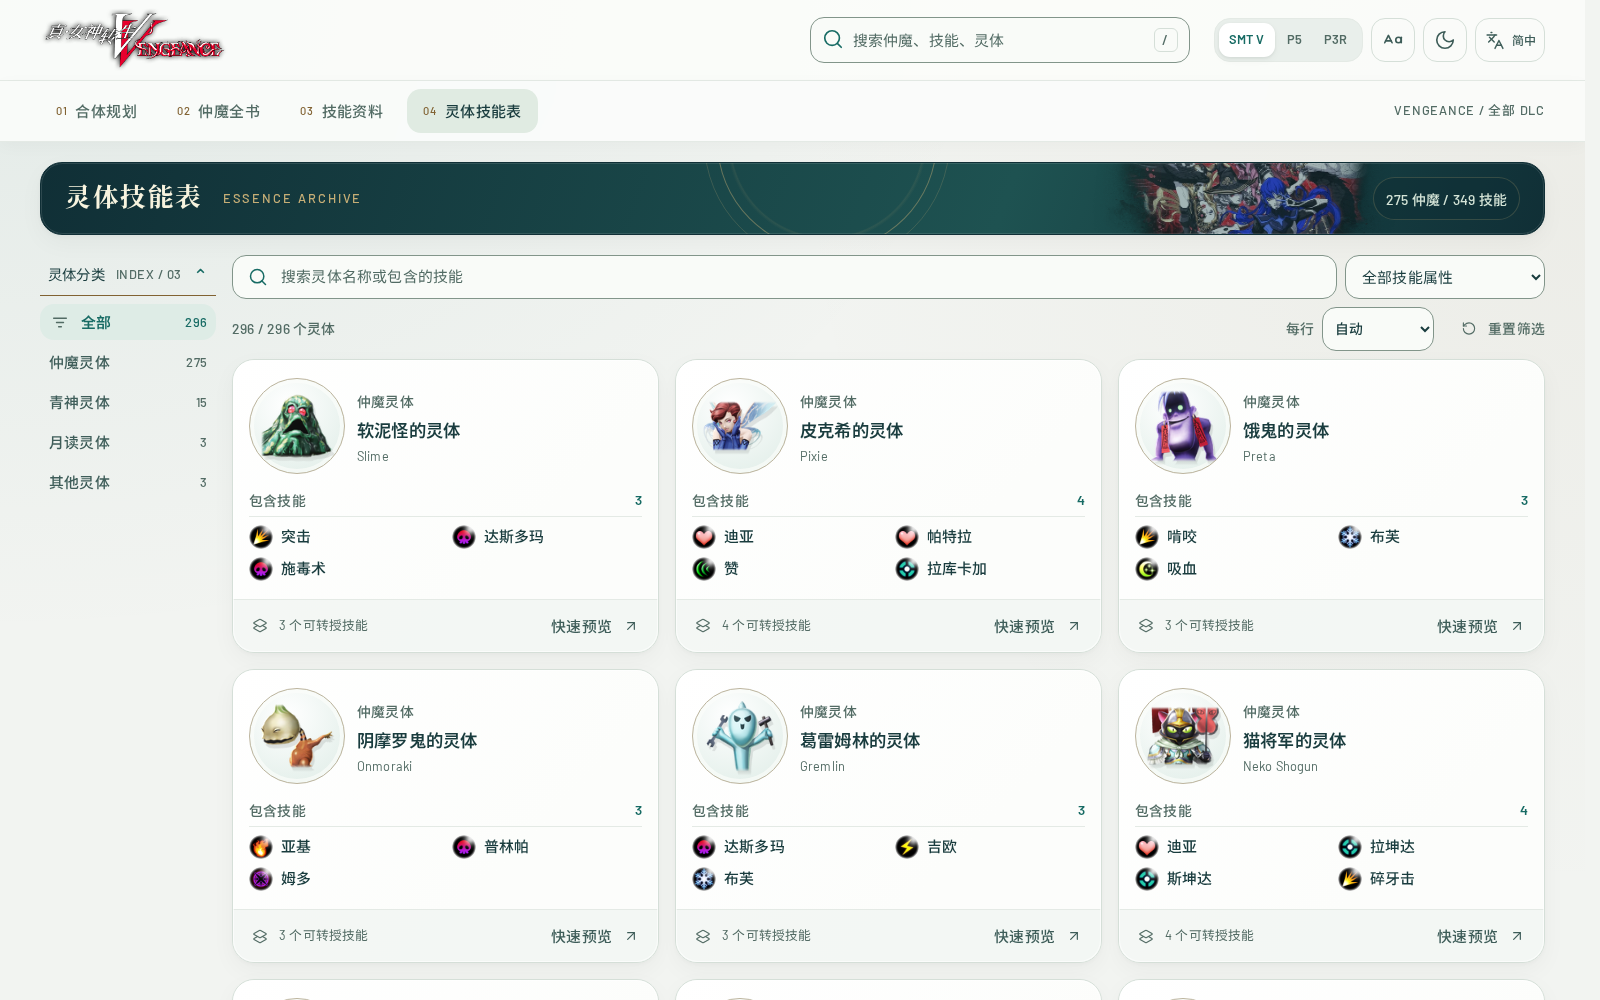
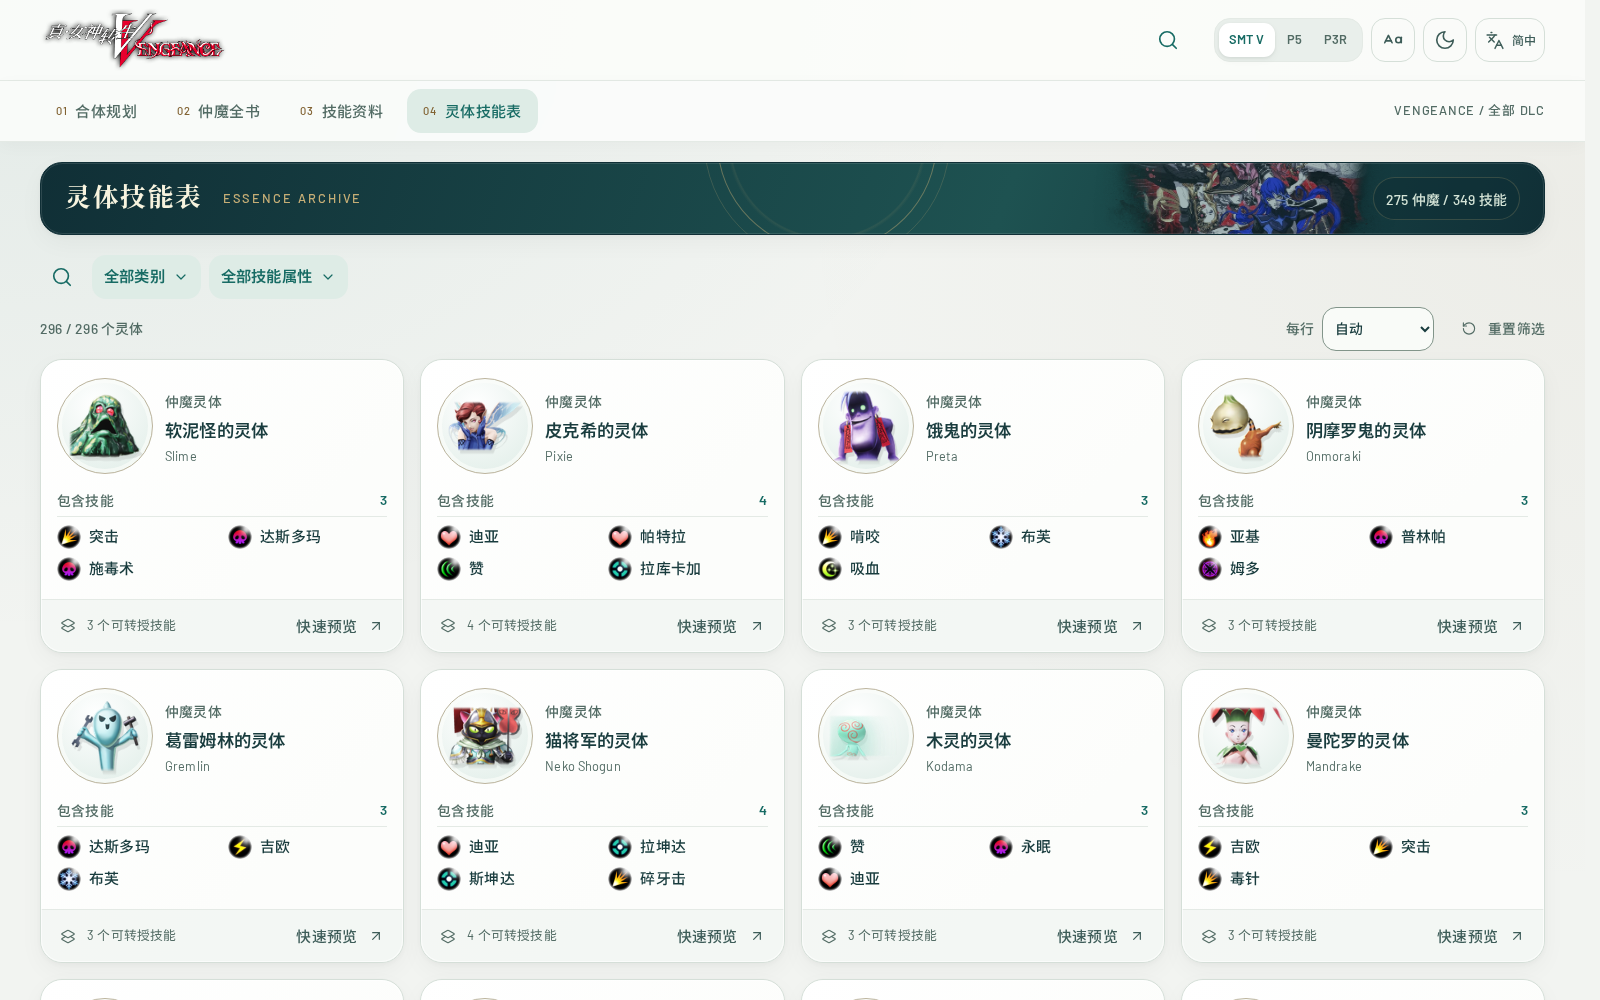
docs: describe the mobile update and refresh desktop and phone screenshots

diff --git a/docs/DESIGN.md b/docs/DESIGN.md
@@ -21,19 +21,19 @@
 - 效果说明为 `.9375rem`（约 15–16px），辅助信息为 `.8125rem`（约 13–14px），耐性、来源与计数等小标签为 `.75rem`（12–13px）。所有层级随大字号设置缩放，手机保持同一套字号变量。
 - 基础间距为 4px，组件一般使用 12–16px 内边距，主要区域间距为 16–20px。数据行距为 1.5–1.7，长篇介绍为 1.8。中等屏幕减少技能列数，最窄屏幕和手机大字号使用单列技能卡。
 - 三主题共用圆角变量：小标签 10px、控件 14px、内嵌卡 16px、资料卡 22px、面板 26px、弹窗 30px。手机面板为 22px、弹窗为 26px；卡片底栏和面板标题匹配外层弧度，菜单、提示与焦点轮廓保持可见。加载占位沿用对应容器的圆角，技能卡移除旧折角，容量刻度使用竖向圆头。
-- 页头仅保留放大的 Logo，桌面为 188×64px；窄屏中 Logo 与搜索共用一行，设置控件放在下一行。导航使用半透明底色与 44px 高的圆角选项，页签与主题选择使用浅底分段控件。页面标题为圆角横栏，桌面最小高度 72px、上下间距 20px，手机为 56px 与 12px；隐藏重复面包屑和手机英文标记。
-- 目标仲魔的头像、等级、种族和名称并排显示；三主题的目标搜索与种族筛选统一为同一行。装配区使用下沉底色与清晰的卡片表面，多列网格的八个槽位等高且最小高度 184px，单列空槽 92px、未选目标时 76px；完整效果自然撑开所有行，保留消耗、替换和指定来源操作。条件区横向排列，生成路线按钮仍随正文滚动。
-- 仲魔卡展示头像、种族、等级、合体类型与七属性耐性；配置与预览是独立按钮。技能卡优先显示效果，再列基础消耗、继承限制与习得来源数量。灵体卡展示前四项技能，搜索命中的技能优先出现，完整技能在预览和详情中查看。
-- 资料卡使用 16px 主体内边距与间距，按内容区宽度自动排为更多列；仲魔卡最小宽度 250px，技能与灵体卡 320px，手机自然缩为单列。仲魔卡以 88px 头像与身份资料并排、下方显示七属性耐性；灵体头像使用 96px 圆形框，卡宽不超过 18rem 时为 80px，图片等比例居中并保留内边距，悬停时保持在圆内。操作按钮保留 44px 点击高度。
-- 技能列表按左侧属性目录顺序分组排列，同属性保持稳定次序；搜索、继承筛选、重置和语言切换保持同一规则。
+- 页头保留 Logo、放大镜搜索入口与显示设置。手机设置收在菜单中，隐藏重复的页面标题横栏，为配置和资料内容留出空间；导航保留 44px 触屏操作区域。全局搜索以独立宽面板显示，不受页头按钮宽度限制。
+- 桌面配置将目标摘要和技能网格并排；手机将目标摘要、技能和条件顺排，目标耐性、习得技能与高级条件按需展开。技能卡提供替换、移除和来源入口，手机生成路线按钮固定在可操作位置，并在软键盘展开时让出空间。
+- 桌面仲魔卡展示头像、种族、等级、合体类型与七属性耐性；手机保留身份信息和操作入口，完整属性在预览与详情中阅读。技能卡优先显示效果与消耗；灵体卡优先显示匹配技能，手机默认展示前两项。卡片主体进入详情，配置、预览与卡内技能链接保持独立。
+- 资料卡按内容区宽度自动排列，手机使用紧凑单列；图片保持原比例。生成、替换、移除、筛选和预览等触屏操作区域至少 44px。
+- 技能列表按分类菜单的属性顺序分组排列，同属性保持稳定次序；搜索、继承筛选、重置和语言切换保持同一规则。
 - 三个资料列表分别提供「每行」选择，支持自动或最多 1–6 项，偏好独立保存在 `smtvv-catalog-columns-v1` 并在标签页间同步。自动模式沿用原有卡宽；手动模式最小卡宽为仲魔 208px、技能／灵体 240px，窄屏自动减少实际列数。调整密度保留筛选、配置和焦点，重置筛选保留密度。手机使用带可访问名称的重置图标。
 - 仲魔卡的七属性在不足 18rem 的容器中排为四列两行，较宽时七列一行。完整状态词保持一行，采用 600 字重与状态色细边框；普通属性透明底，突出耐性和无效等特殊状态。
-- 自动模式的大字号技能卡使用 18rem 最小宽度和 16px 内边距、间距，让列数随阅读字号调整。分类置于首行，名称、原名和效果左对齐；名称为 1.1rem，效果沿用大字号。消耗与继承分为两栏，标签位于数值上方，来源和预览在卡片底部对齐；手动密度下卡宽不超过 17rem 时，来源与预览分行。桌面目录标题与 INDEX 编号分行。
-- 桌面分类目录宽 176px、中等屏幕 164px，分类行至少 36px 高，保持在视野内；899px 及以下默认折叠，操作至少 44px，使用原生 `details` / `summary` 支持键盘操作。搜索与二级筛选在目录关闭时仍可使用，工具条不再包裹额外面板。
+- 自动模式的大字号技能卡使用 18rem 最小宽度和 16px 内边距、间距，让列数随阅读字号调整。分类置于首行，名称、原名和效果左对齐；名称为 1.1rem，效果沿用大字号。消耗与继承分为两栏，标签位于数值上方，来源和预览在卡片底部对齐；手动密度下卡宽不超过 17rem 时，来源与预览分行。分类按钮直接显示当前选项。
+- 三个资料页采用同排的放大镜、分类选择与二级筛选。去掉可见的左侧说明与 INDEX 编号，两个选择器共用下拉按钮和选项面板；选择后收起，支持方向键、Home / End、Escape、外部点击关闭与焦点返回。搜索展开为整行输入框，收起后显示有效搜索条件；筛选、重置与详情返回保留一致状态。
 - 预览使用原生模态 `dialog`，桌面为 440px 侧栏，距窗口边缘 16px；手机距边缘 8px，保留四角弧度。内边距桌面 24px、手机 20px，背景轻微虚化。支持关闭按钮、Escape 和点击背景，关闭后焦点返回原按钮；列表宽度和原滚动位置保持稳定。仲魔预览列出七属性耐性、固有技能与配置入口，肖像区域高 132px。减少动画模式同时关闭卡片与抽屉动画。
 - 仲魔详情页在 1200px 及以上将完整介绍放在头像与基础资料右侧，1199px 及以下顺排在基础资料下方；能力、耐性和技能接续在页头之后。仲魔头像在桌面使用 224×184px、手机使用 112×112px，389px 以下宽度收至 96px，为长名称留出空间，图片始终保持原比例；名称、基础资料和配置入口合并为紧凑页头，手机资料使用两列。介绍保留完整自然段、1.8 行高与最多 68ch 的阅读宽度；技能详情说明也限制为 68ch。699px 以下的技能表改为名称和操作在上、完整效果在下的条目，保留表格语义和所有数据。
-- 路线方案使用圆角分段选择栏，以浅底容器、选中表面和轻投影区分状态；每项并排展示费用和操作数，手机改为同一容器内的三行。完整解释保留在提示与对比明细，方向键及 Home / End 可切换方案并保留焦点。
-- 路线步骤采用连续无卡片清单，以加号和箭头连接等宽的材料与结果。技能直接标在对应仲魔或灵体下方；同一继承技能只在一个提供方显示，其他可选提供方用名称链接注明。
+- 桌面路线方案使用分段选择栏，同时展示费用和操作数；手机使用紧凑方案选择器与当前方案摘要。其他计算目标按需计算，完整解释可在方案对比中查看。
+- 桌面路线步骤以加号和箭头连接材料与结果，技能显示在对应仲魔或灵体下方；手机先展示材料、结果与技能变化摘要，完整来源在每步明细中展开。
 - 路线头像桌面为 112px、窄屏 88px；名称分别为 1.5rem、1.375rem，技能名称为 1rem。三份及以上材料分组，窄屏纵排；结果列显示完整保留技能。
 - 来源显示「起始材料」「第 n 步产物」，保留跳转与完整导出。移除完成勾选和进度；手机步骤目录横向滚动，编号跳转、刷新与详情返回时恢复当前步骤。
 - 技能搜索仅匹配名称和名称译名，属性分类通过分类按钮筛选。前台页底不再显示站点标语或数据来源折叠说明。
@@ -43,7 +43,8 @@
 ## 样式入口
 
 `web/auth/theme/typography.css` 提供本地字体、语言回退与标题家族。
-`web/experience.css` 加载于旧结构样式之后，统一三套外观、装配页、资料卡、预览与详情。
+`web/experience.css` 加载于旧结构样式之后，统一三套外观、资料卡、筛选菜单、预览与详情。
+`web/components.css` 集中管理共用配置控件、搜索面板及手机布局；`web/task-controller.js` 管理请求标识、计算阶段、取消与轮询。
 `web/catalog-ui.js` 负责三个资料列表的呈现、分类按钮状态与独立列数偏好；筛选与配置保存逻辑保留在 `web/app.js`。
 列表按原始名称复用节点，灵体搜索只更新匹配的技能清单，保留卡片与头像。页面仅挂载当前资料列表，离开时释放节点缓存；筛选、列数与滚动位置独立保存。卡片使用真实自然高度，不估算长列表高度，以确保返回时仍停在原条目。
 

diff --git a/docs/SHOWCASE.md b/docs/SHOWCASE.md
@@ -1,6 +1,6 @@
 # 页面截图与功能介绍
 
-以下截图取自本仓库的本地版本，采用简体中文、SMT V 外观和桌面尺寸。路线图展示一次真实计算；管理后台使用隔离测试数据，不包含线上账号或站点记录。
+以下截图采用简体中文和 SMT V 浅色外观。前台截图更新于 2026-10-01，取自本仓库的本地版本；桌面使用 1600×1000 视口，手机使用 390×844 视口。路线图来自一次真实计算；管理后台截图沿用隔离测试数据，不包含线上账号或站点记录。
 
 ## 合体配置
 
@@ -55,3 +55,32 @@
 ![使用隔离测试数据展示的管理后台访问控制页面](screenshots/admin.png)
 
 管理员可管理访问要求、会话期限、维护模式、公告、计算任务和账户安全。截图中的账号、状态与运行时间均为隔离测试数据。
+
+
+## 移动端
+
+手机端保留完整的配置和查询能力，将常用操作放在首屏，详细条件与来源按需展开。
+
+| 仲魔配置 | 技能选择 |
+| --- | --- |
+| <img src="screenshots/mobile-planner.png" alt="手机义经配置与生成路线按钮" width="300"> | <img src="screenshots/mobile-skill-picker.png" alt="全屏技能选择和物理技能搜索" width="300"> |
+
+目标摘要与技能卡紧凑排列，技能选择弹窗提供宽搜索框和独立滚动区。
+
+| 路线概览 | 路线步骤 |
+| --- | --- |
+| <img src="screenshots/mobile-routes.png" alt="手机路线方案和费用概览" width="300"> | <img src="screenshots/mobile-route-steps.png" alt="手机路线中的材料、结果和技能变化" width="300"> |
+
+先查看方案、材料和技能变化，再展开完整来源。这里展示的义经八技能路线由程序实际计算。
+
+| 仲魔全书 | 技能资料 |
+| --- | --- |
+| <img src="screenshots/mobile-demons.png" alt="手机仲魔全书的同排搜索与筛选栏" width="300"> | <img src="screenshots/mobile-skills.png" alt="手机技能资料的类别和继承条件筛选" width="300"> |
+
+搜索、分类和二级筛选并列，点击卡片主体进入详情；配置和快速预览仍是独立入口。
+
+| 灵体技能表 | 全局搜索 |
+| --- | --- |
+| <img src="screenshots/mobile-essences.png" alt="手机灵体列表和技能属性筛选" width="300"> | <img src="screenshots/mobile-search.png" alt="放大镜打开的宽搜索面板及皮克希查询结果" width="300"> |
+
+灵体列表支持按包含的技能查找；顶部放大镜可一次搜索仲魔、技能和灵体，结果不受页头按钮宽度限制。

diff --git a/CHANGELOG.md b/CHANGELOG.md
@@ -1,0 +1,27 @@
+# 更新日志
+
+## 2026-10-01 · 移动端适配与查询体验优化
+
+### 移动端与交互
+
+- 配置页采用紧凑的目标摘要与技能卡，目标详情、来源和高级条件可展开；生成路线入口在手机上保持可见。
+- 技能和来源选择使用全屏弹窗、单列内容与独立滚动区，触屏操作区域至少 44px。
+- 路线步骤先呈现材料、结果与技能变化，完整来源和条件仍可展开查看；手机使用紧凑的方案选择器。
+- 仲魔、技能与灵体资料页将搜索、分类和二级筛选放在同一行，分类入口显示当前选择；两个选择器使用统一的下拉按钮与选项面板。
+- 顶部放大镜打开宽搜索面板，资料页搜索展开为整行输入框，支持组合筛选、清除、重置和返回详情后的状态恢复。
+- 资料卡主体使用原生详情链接，点击卡片即可进入；配置、快速预览和卡片内的技能链接保持独立。
+- 手机的合体规划页隐藏返回顶部按钮；资料列表及详情只保留右侧按钮，桌面保留原有双侧入口。
+- 修复手机切回桌面时目标搜索框未恢复显示的问题，补齐下拉键盘操作、焦点返回和输入法确认处理。
+
+### 计算与维护
+
+- 统一配置解析、请求校验、任务状态和共享数据入口，减少搜索路径与界面间的重复逻辑。
+- 相同的进行中请求复用计算，保留独立取消与技能显示顺序；完成结果按规范配置、代码/数据版本及引擎标识缓存。
+- 集中处理应用依赖、文件锁和原子状态写入，将外部验证请求与结果编码移出关键锁区间。
+- 整理共用前端控件、传输与偏好设置；网页资源由构建脚本统一生成加载器和内容版本标识。
+
+### 兼容与验证
+
+三套外观、五种界面语言、八技能配置和三种计算目标继续保留。单机使用无需配置远程计算节点。自部署更新请先备份并遵循[升级说明](docs/DEPLOYMENT.md)；使用独立计算节点时，协调服务和节点需要同步代码/数据版本。
+
+本次代码经过 Python 回归、Chromium/WebKit 浏览器检查、多语言与多主题检查，并在公开演示站验证了配置计算、资料导航和筛选操作。新增的手机截图来自 390px 浏览器视口，见[页面截图](docs/SHOWCASE.md)。

diff --git a/README.md b/README.md
@@ -4,11 +4,29 @@
 
 《Shin Megami Tensei V: Vengeance》非官方资料与合体路线工具。支持三套主题、五种语言、仲魔与灵体图鉴、最多八技能规划，以及「综合最优」「合体次数最少」「费用最低」三种经过规则回放校验的路线。包含完整网站资源，默认在自己的机器上计算，无需 AI API、外部计算节点或维护者的服务。
 
+## 最新更新 · 2026-10-01
+
+- **移动端适配**：紧凑的仲魔配置、全屏技能选择和路线步骤摘要，常用操作适合触屏。
+- **资料查询**：搜索、分类与二级筛选同排，两个选择器统一为下拉按钮；整张资料卡可进入详情，预览和配置按钮保持独立。
+- **搜索与计算**：放大镜打开宽搜索面板，筛选与返回位置可恢复；统一配置校验、任务管理和缓存复用。
+
+完整说明见 [更新日志](CHANGELOG.md)，内部改动见 [移动端与计算服务整理](docs/MOBILE-AND-CORE.md)。
+
 ## 页面截图
 
 ![义经的八技能合体配置](docs/screenshots/planner.png)
 
-从[页面截图与功能介绍](docs/SHOWCASE.md)查看合体路线、仲魔全书、技能资料、灵体技能表、三类详情页及管理后台。截图取自仓库的本地版本；后台使用隔离测试数据。
+### 移动端
+
+| 仲魔配置 | 合体路线 |
+| --- | --- |
+| <img src="docs/screenshots/mobile-planner.png" alt="手机上的义经技能配置和生成路线入口" width="300"> | <img src="docs/screenshots/mobile-routes.png" alt="手机上的真实合体路线与方案摘要" width="300"> |
+
+| 仲魔全书 | 技能选择 |
+| --- | --- |
+| <img src="docs/screenshots/mobile-demons.png" alt="搜索、种族和合体方式同排的手机仲魔全书" width="300"> | <img src="docs/screenshots/mobile-skill-picker.png" alt="手机全屏技能选择与搜索" width="300"> |
+
+从[页面截图与功能介绍](docs/SHOWCASE.md)查看更多手机与桌面的路线步骤、技能资料、灵体、全局搜索及详情页。截图取自当前仓库的本地版本，手机使用 390px 宽视口；路线为实际计算结果，后台使用隔离测试数据。
 
 ## 本地运行
 

diff --git a/docs/MOBILE-AND-CORE.md b/docs/MOBILE-AND-CORE.md
@@ -11,6 +11,13 @@ and the final retained set. Full material and provenance details remain availabl
 per step. Desktop continues to display the full equations. Collections use
 compact records on phones and retain the existing previews and detail pages.
 
+Collection toolbars place the search icon, category selector and secondary filter
+on the same row. Both selectors share a button/dropdown pattern; the search input
+expands to the available width. Global search opens a separate spacious dialog.
+Cards use native detail links across their surface while configuration, preview
+and nested skill links remain independent. Phones show one right-hand back-to-top
+control in libraries/details and none on the planner.
+
 ## Shared code
 
 - `game_data.py` owns pinned data independently of search and presentation.
